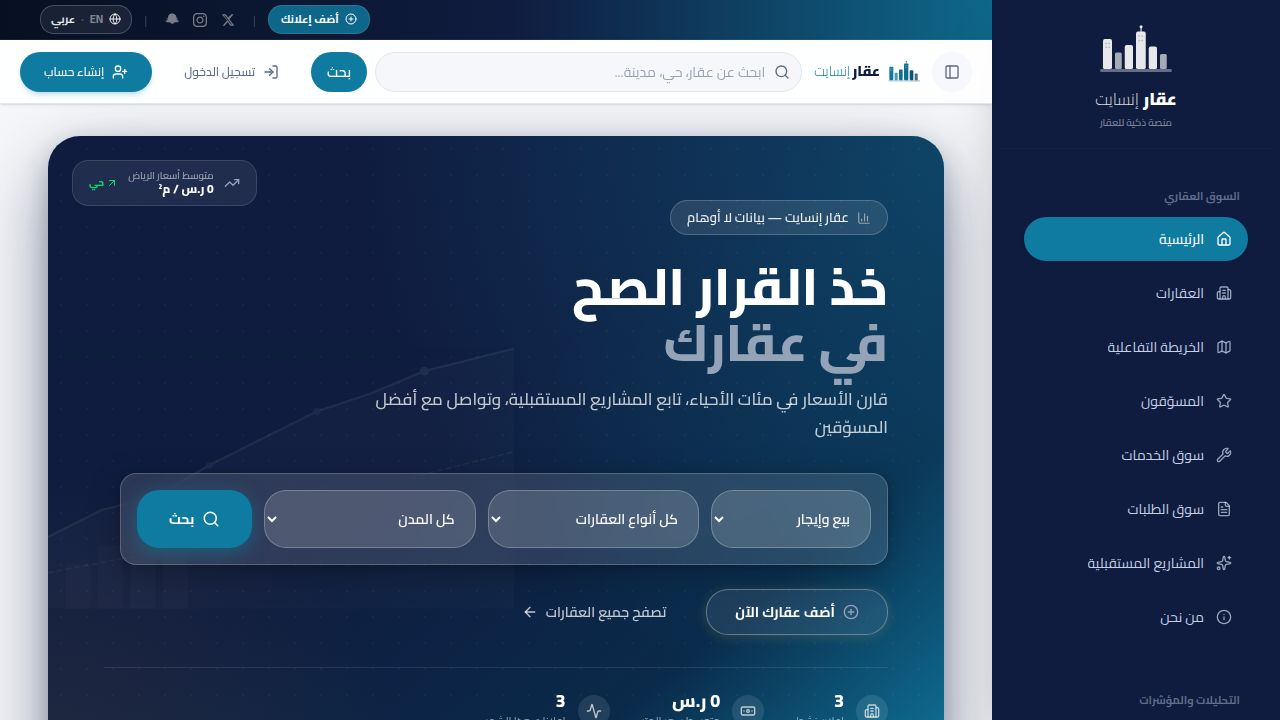
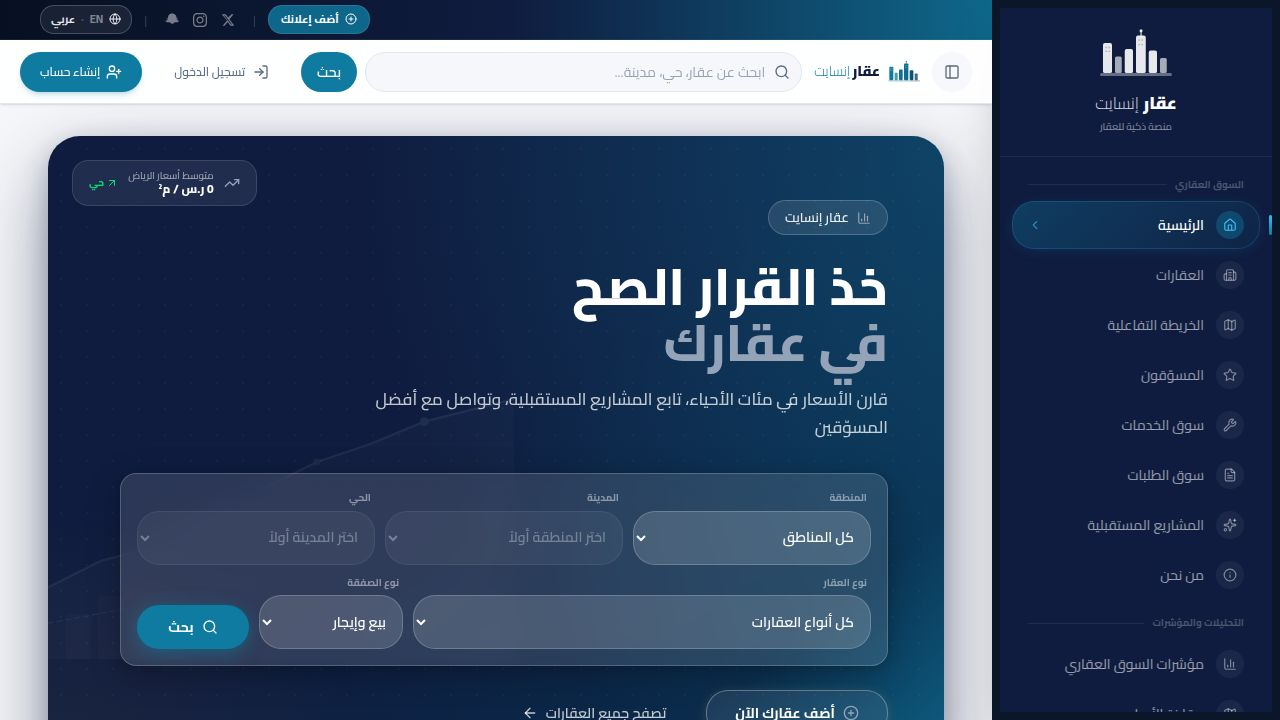
Adapt website layout for improved mobile user experience
Update login and signup forms with input attributes to prevent mobile keyboard interference. Restructure map page layout to include a tabbed interface for switching between map and list views on mobile devices, while maintaining the side-by-side layout on larger screens.

Replit-Commit-Author: Agent
Replit-Commit-Session-Id: f1be056f-fc4a-4461-962c-60d03f6b6cb3
Replit-Commit-Checkpoint-Type: full_checkpoint
Replit-Commit-Event-Id: 6a6409d8-d22b-46f2-8a71-4061c53d1a3f
Replit-Commit-Screenshot-Url: https://storage.googleapis.com/screenshot-production-us-central1/24f6cca2-97a5-4cb7-90fe-09117eb86dda/f1be056f-fc4a-4461-962c-60d03f6b6cb3/jUxAxGN
Replit-Helium-Checkpoint-Created: true

diff --git a/artifacts/aqar-monitor/src/pages/map-page.tsx b/artifacts/aqar-monitor/src/pages/map-page.tsx
@@ -10,7 +10,7 @@ import { formatCurrency, getImageSrc } from "@/lib/utils";
 import {
   MapPin, Building2, SlidersHorizontal, X, Search,
   Maximize2, BedDouble, Bath, ChevronLeft, RefreshCcw,
-  Navigation, Layers,
+  Navigation, Layers, Map,
 } from "lucide-react";
 import type { MapPin as MapPinType } from "@/components/property-map";
 
@@ -123,6 +123,9 @@ export default function MapPage() {
   // Map ↔ list sync
   const [activePinId, setActivePinId] = useState<number | null>(null);
   const [visibleIds, setVisibleIds] = useState<number[]>([]);
+
+  // Mobile view toggle
+  const [mobileView, setMobileView] = useState<"map" | "list">("map");
 
   const buildQuery = () => {
     const p = new URLSearchParams();
@@ -298,11 +301,41 @@ export default function MapPage() {
         </div>
       )}
 
+      {/* Mobile tab bar */}
+      <div className="md:hidden flex border-b border-border bg-white">
+        <button
+          className={`flex-1 flex items-center justify-center gap-2 py-3 text-sm font-semibold transition-colors ${
+            mobileView === "map"
+              ? "text-primary border-b-2 border-primary"
+              : "text-muted-foreground"
+          }`}
+          onClick={() => setMobileView("map")}
+        >
+          <Map className="w-4 h-4" />
+          <span>الخريطة</span>
+        </button>
+        <button
+          className={`flex-1 flex items-center justify-center gap-2 py-3 text-sm font-semibold transition-colors ${
+            mobileView === "list"
+              ? "text-primary border-b-2 border-primary"
+              : "text-muted-foreground"
+          }`}
+          onClick={() => setMobileView("list")}
+        >
+          <Building2 className="w-4 h-4" />
+          <span>القائمة {!loading && pins.length > 0 && `(${visiblePins.length})`}</span>
+        </button>
+      </div>
+
       {/* Main split layout */}
-      <div className="flex" style={{ height: "calc(100vh - 170px)", minHeight: 500 }}>
+      <div className="flex" style={{ height: "calc(100vh - 170px)", minHeight: 400 }}>
         {/* Left panel: listing cards */}
         <div
-          className="flex-shrink-0 flex flex-col bg-muted/40 border-e border-border w-[280px] min-w-[200px] max-w-xs"
+          className={`flex-col bg-muted/40 border-e border-border md:flex-shrink-0 md:w-[280px] md:min-w-[200px] md:max-w-xs ${
+            mobileView === "list"
+              ? "flex w-full"
+              : "hidden md:flex"
+          }`}
         >
           {/* Panel header */}
           <div className="px-3 py-3 border-b border-border bg-white flex items-center justify-between">
@@ -379,7 +412,7 @@ export default function MapPage() {
         </div>
 
         {/* Right panel: map */}
-        <div className="flex-1 relative">
+        <div className={`flex-1 relative ${mobileView === "list" ? "hidden md:block" : "block"}`}>
           {loading && (
             <div className="absolute inset-0 z-10 flex items-center justify-center bg-muted/60 backdrop-blur-sm">
               <div className="bg-white rounded-2xl px-6 py-4 shadow-lg flex items-center gap-3">

diff --git a/artifacts/aqar-monitor/src/pages/signup.tsx b/artifacts/aqar-monitor/src/pages/signup.tsx
@@ -379,7 +379,8 @@ export default function Signup() {
                   <User className="absolute right-3 top-1/2 -translate-y-1/2 w-4 h-4 text-muted-foreground pointer-events-none" />
                   <Input id="fullName" type="text" autoComplete="name" value={fullName}
                     onChange={e => setFullName(e.target.value)} placeholder="محمد العمري"
-                    className="pr-9 h-11 rounded-xl border-border/60 bg-background/50 text-right text-base" required />
+                    className="pr-9 h-11 rounded-xl border-border/60 bg-background/50 text-right text-base" required
+                    autoCapitalize="words" autoCorrect="off" spellCheck={false} />
                 </div>
               </div>
 
@@ -390,7 +391,8 @@ export default function Signup() {
                   <span className="absolute right-3 top-1/2 -translate-y-1/2 text-muted-foreground text-sm font-medium pointer-events-none select-none">@</span>
                   <Input id="username" type="text" autoComplete="username" value={username}
                     onChange={e => setUsername(e.target.value)} placeholder="m_alomari"
-                    className="pr-9 h-11 rounded-xl border-border/60 bg-background/50 text-right text-base font-mono" dir="ltr" required />
+                    className="pr-9 h-11 rounded-xl border-border/60 bg-background/50 text-right text-base font-mono" dir="ltr" required
+                    autoCapitalize="none" autoCorrect="off" spellCheck={false} />
                 </div>
                 <p className="text-xs text-muted-foreground">أحرف إنجليزية وأرقام وشرطة سفلية فقط</p>
               </div>
@@ -414,7 +416,8 @@ export default function Signup() {
                   <Input id="password" type={showPassword ? "text" : "password"}
                     autoComplete="new-password" value={password}
                     onChange={e => setPassword(e.target.value)} placeholder="••••••••"
-                    className="pr-9 pl-10 h-11 rounded-xl border-border/60 bg-background/50 text-base" required />
+                    className="pr-9 pl-10 h-11 rounded-xl border-border/60 bg-background/50 text-base" required
+                    autoCapitalize="none" autoCorrect="off" spellCheck={false} />
                   <button type="button" onClick={() => setShowPassword(p => !p)}
                     className="absolute left-3 top-1/2 -translate-y-1/2 text-muted-foreground hover:text-foreground transition-colors" tabIndex={-1}>
                     {showPassword ? <EyeOff className="w-4 h-4" /> : <Eye className="w-4 h-4" />}

diff --git a/artifacts/aqar-monitor/src/pages/login.tsx b/artifacts/aqar-monitor/src/pages/login.tsx
@@ -66,6 +66,9 @@ export default function Login() {
                   id="identifier"
                   type="text"
                   autoComplete="username"
+                  autoCapitalize="none"
+                  autoCorrect="off"
+                  spellCheck={false}
                   value={identifier}
                   onChange={(e) => setIdentifier(e.target.value)}
                   placeholder="admin أو [email redacted]"
@@ -95,6 +98,9 @@ export default function Login() {
                   id="password"
                   type={showPassword ? "text" : "password"}
                   autoComplete="current-password"
+                  autoCapitalize="none"
+                  autoCorrect="off"
+                  spellCheck={false}
                   value={password}
                   onChange={(e) => setPassword(e.target.value)}
                   placeholder="••••••••"